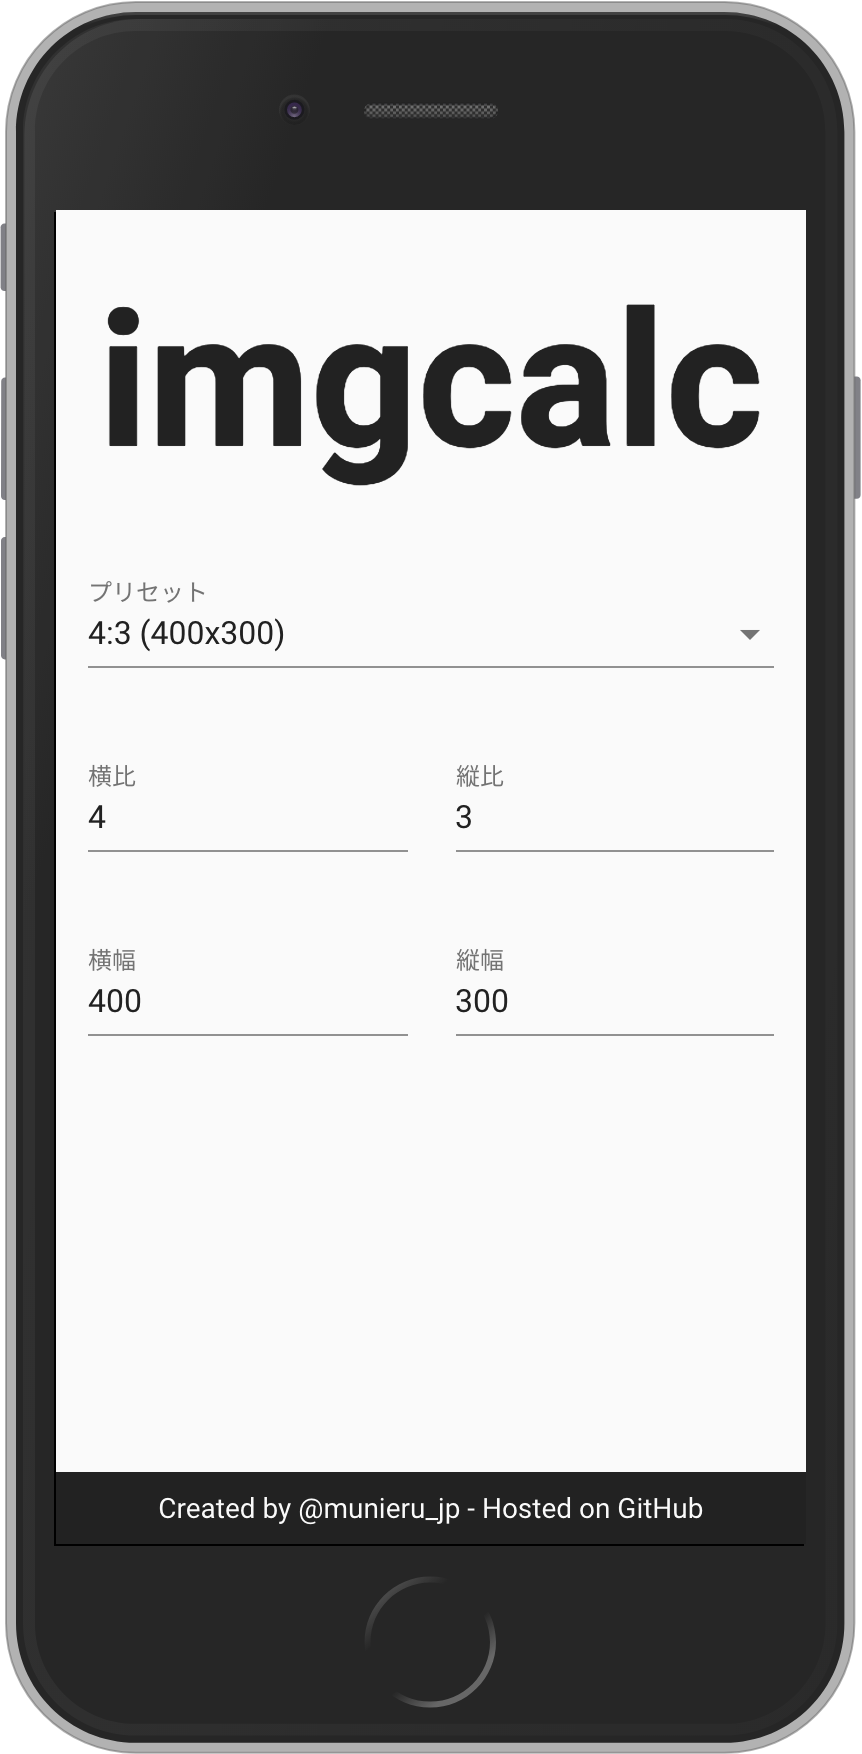
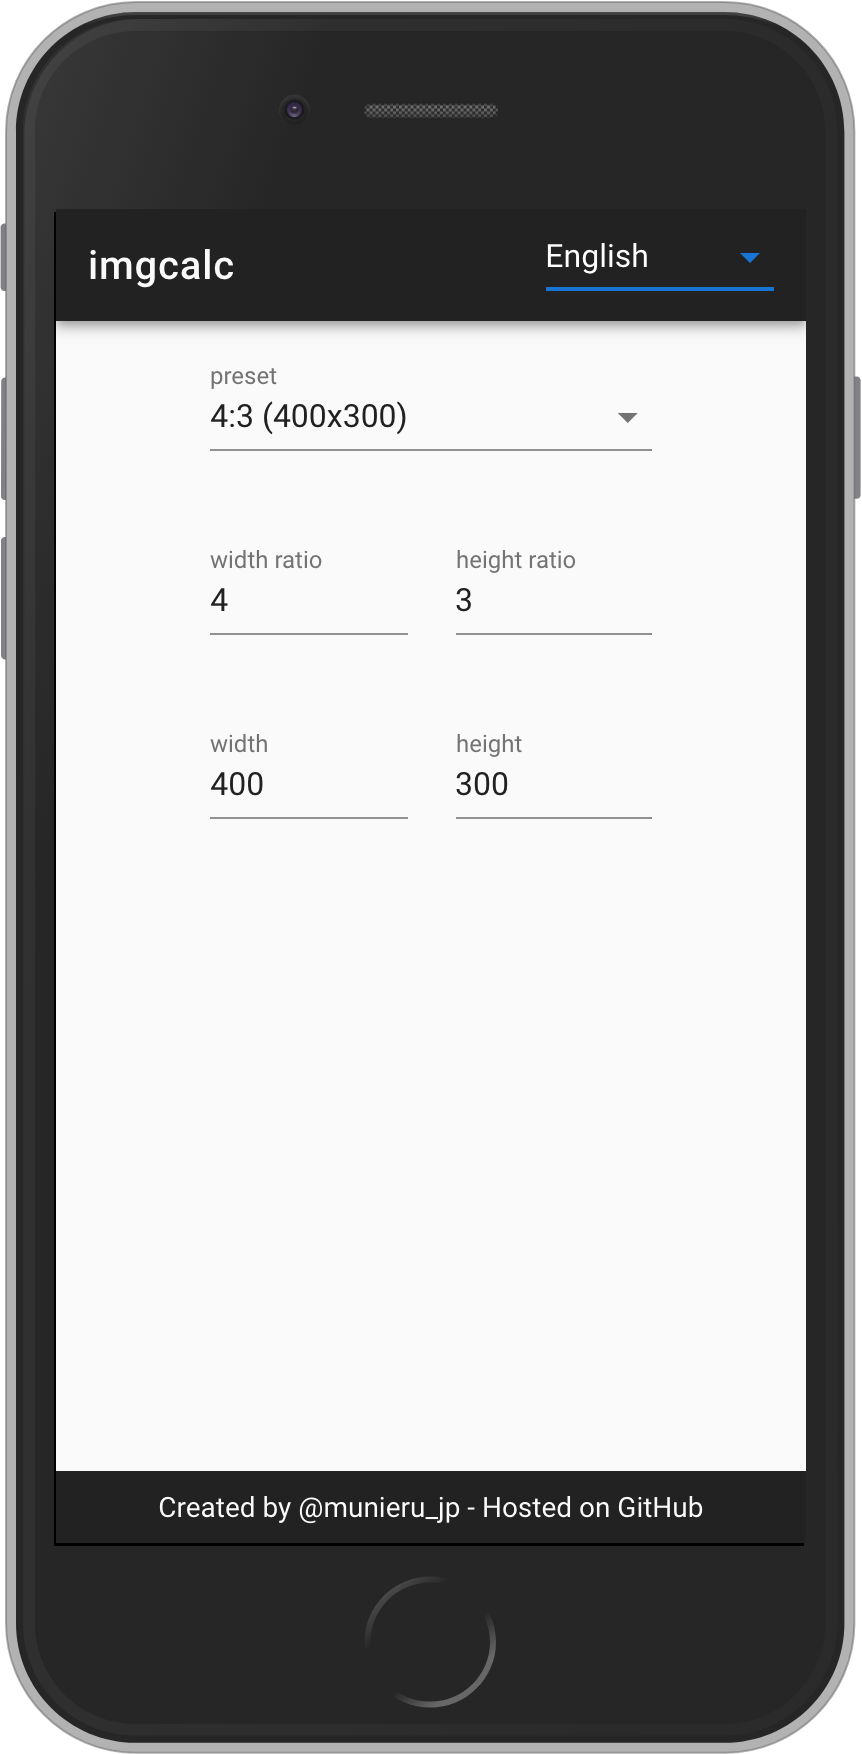
Update README (#4)
* Update screenshot

* Update README

diff --git a/README.md b/README.md
@@ -1,35 +1,32 @@
 [![Netlify Status](https://api.netlify.com/api/v1/badges/73ae2996-3e5c-4717-8c92-5db9d6e15550/deploy-status)](https://app.netlify.com/sites/imgcalc/deploys)
 
 # imgcalc
-アスペクト比から画像サイズを計算するツール
+Tool for calculating image size from aspect ratio
 
 <img src=".doc/iphone.png" width="300">
 
-## 開発
-### 初期設定
-#### パッケージをインストール
+## Development
+### Install packages
 ```sh
 $ npm i
 ```
 
-または
+or
 
 ```sh
 $ yarn install
 ```
 
-#### 設定ファイルを作成
-`config.sample.json`ファイルをコピーして`config.json`ファイルを作成します。
-
+### Create config file
 ```sh
 $ cp config.sample.json config.json
 ```
 
-作成した`config.json`ファイルに以下の内容を入力してください。
+Input below values to `config.json`:
 
-|キー|説明|例|
+|key|description|example|
 |---|---|---|
-|`BASE_DIR`|デプロイ先のベースディレクトリ|`/`|
-|`TWITTER_ID`|TwitterのID|`munieru_jp`|
-|`OG_IMAGE_PATH`|OGP画像のパス|`favicon-256x256.png`|
-|`ORIGIN`|デプロイ先のオリジン|`http://localhost:3000/`|
+|`BASE_DIR`|base directory to deploy|`/`|
+|`TWITTER_ID`|Twitter ID|`munieru_jp`|
+|`OG_IMAGE_PATH`|OGP image path|`favicon-256x256.png`|
+|`ORIGIN`|origin to deploy|`http://localhost:3000/`|
